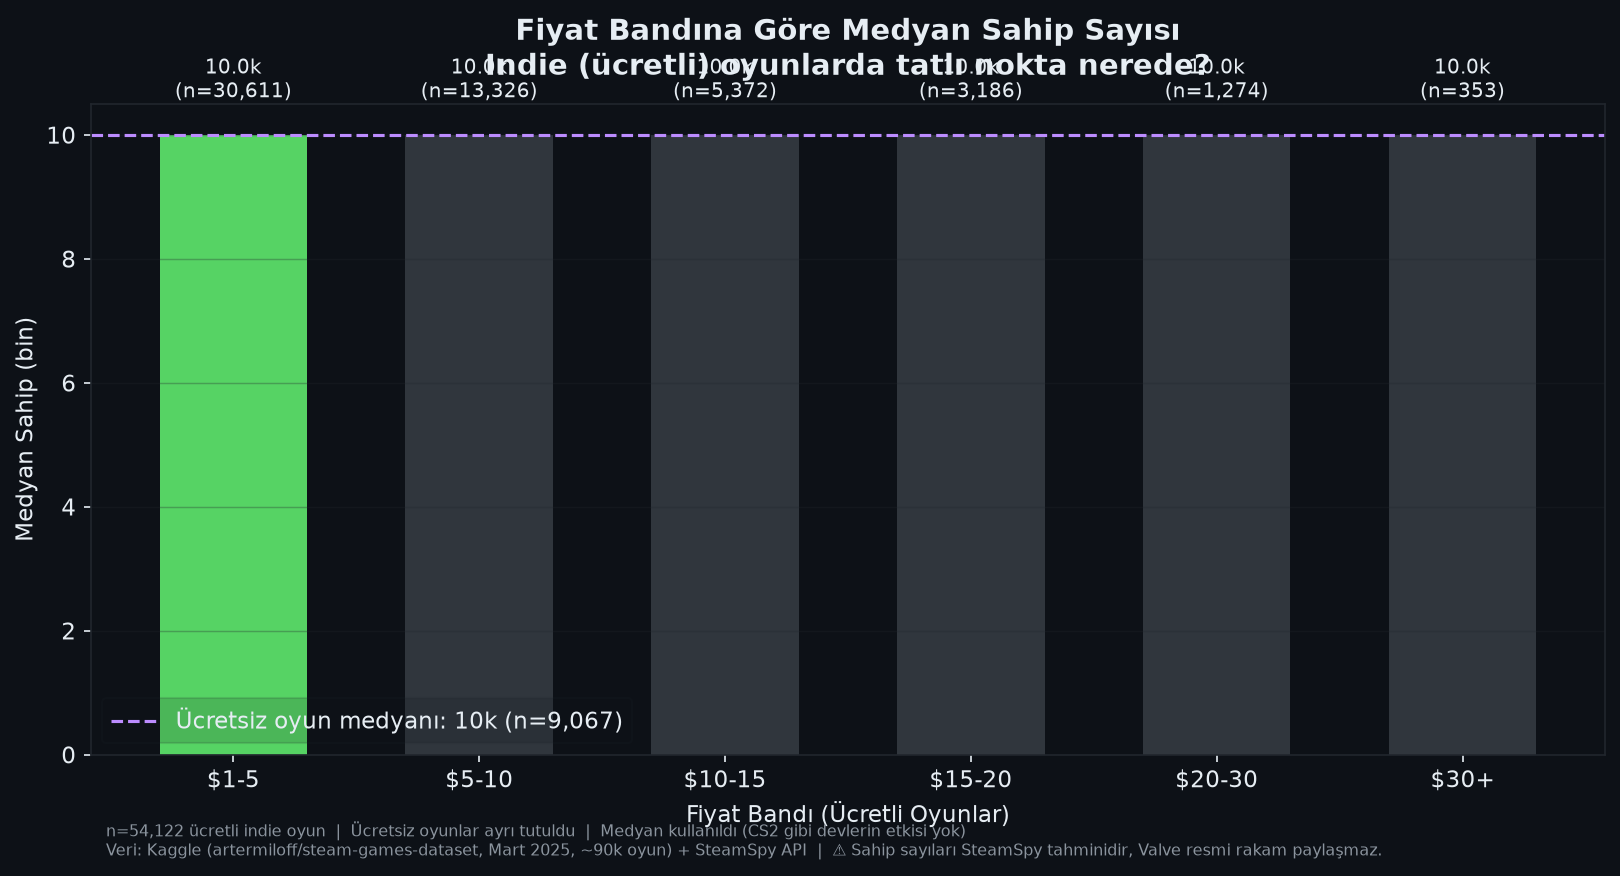
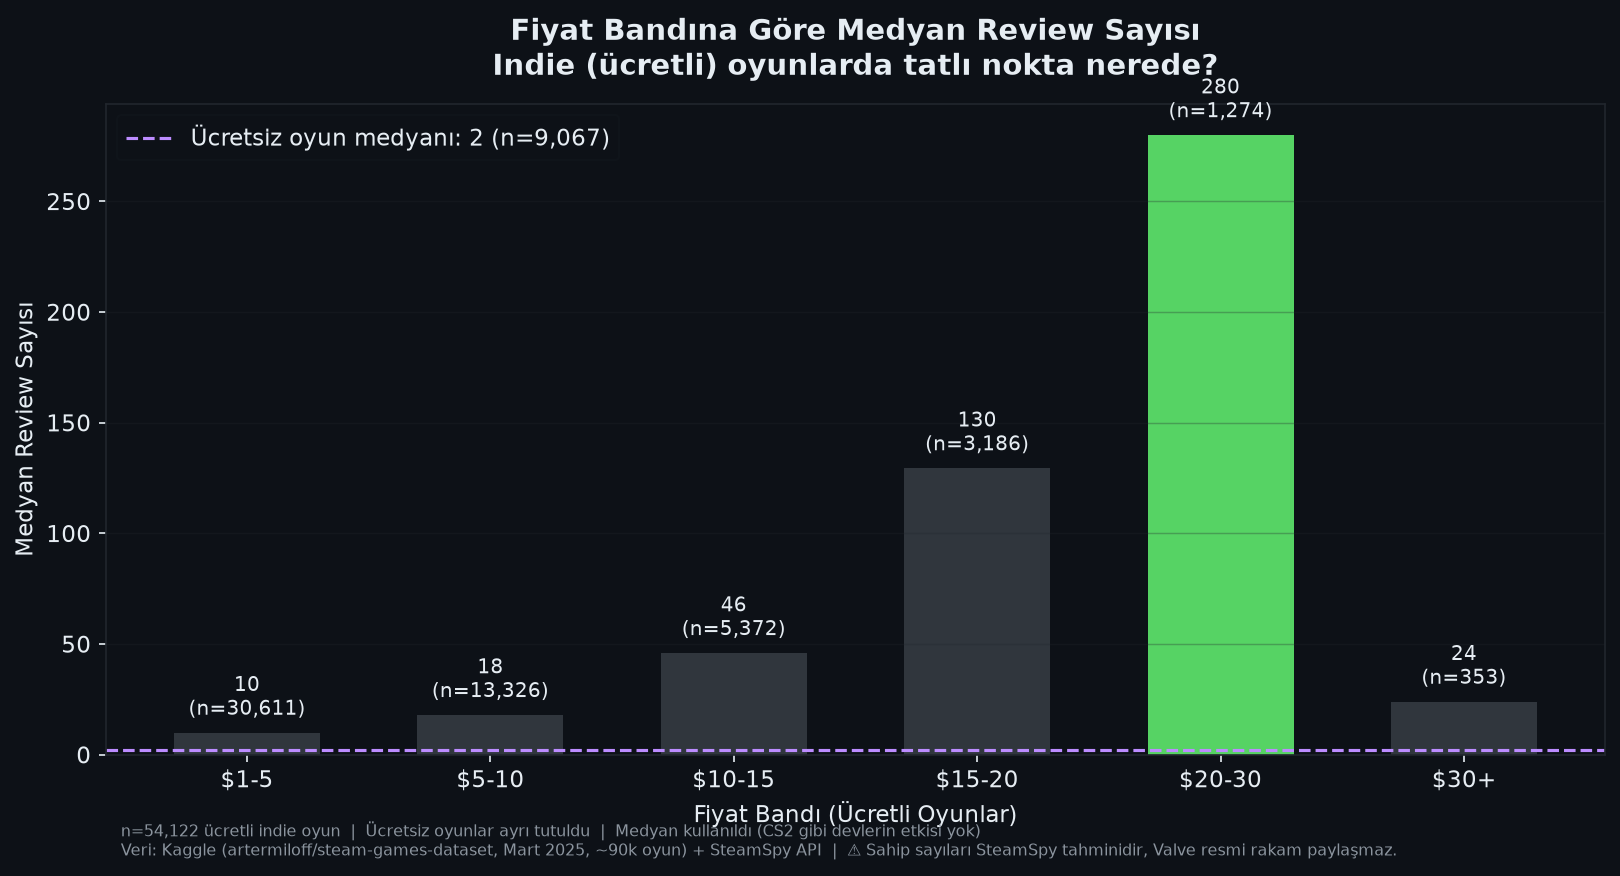
fix: price sweet spot chart mistakenly used owners_mid instead of total_reviews

diff --git a/src/visualizer.py b/src/visualizer.py
@@ -327,11 +327,11 @@ def chart_price_sweet_spot(df):
     paid["bucket"] = pd.cut(paid["price"], bins=bins, labels=labels)
 
     stats = paid.groupby("bucket", observed=True).agg(
-        medyan=("owners_mid", "median"),
-        n=("owners_mid", "count")
+        medyan=("total_reviews", "median"),
+        n=("total_reviews", "count")
     ).reset_index()
 
-    free_median = free["owners_mid"].median()
+    free_median = free["total_reviews"].median()
 
     fig, ax = plt.subplots(figsize=(11, 6))
 
@@ -340,24 +340,24 @@ def chart_price_sweet_spot(df):
     best_idx = stats["medyan"].idxmax()
     colors[best_idx] = C["green"]
 
-    bars = ax.bar(stats["bucket"].astype(str), stats["medyan"] / 1000,
+    bars = ax.bar(stats["bucket"].astype(str), stats["medyan"],
                   color=colors, width=0.6)
 
     for bar, row in zip(bars, stats.itertuples()):
         ax.text(bar.get_x() + bar.get_width() / 2,
-                bar.get_height() + 0.5,
-                f"{row.medyan/1000:.1f}k\n(n={row.n:,})",
+                bar.get_height() + 5,
+                f"{row.medyan:.0f}\n(n={row.n:,})",
                 ha="center", va="bottom", fontsize=9.5, color=C["text"])
 
     # Ücretsiz referans çizgisi
-    ax.axhline(free_median / 1000, color=C["purple"], linewidth=1.5,
-               linestyle="--", label=f"Ücretsiz oyun medyanı: {free_median/1000:.0f}k (n={n_free:,})")
+    ax.axhline(free_median, color=C["purple"], linewidth=1.5,
+               linestyle="--", label=f"Ücretsiz oyun medyanı: {free_median:.0f} (n={n_free:,})")
 
-    ax.set_title("Fiyat Bandına Göre Medyan Sahip Sayısı\n"
+    ax.set_title("Fiyat Bandına Göre Medyan Review Sayısı\n"
                  "Indie (ücretli) oyunlarda tatlı nokta nerede?",
                  fontweight="bold", pad=14)
     ax.set_xlabel("Fiyat Bandı (Ücretli Oyunlar)")
-    ax.set_ylabel("Medyan Sahip (bin)")
+    ax.set_ylabel("Medyan Review Sayısı")
     ax.legend(framealpha=0.15, edgecolor=C["grid"])
     ax.grid(True, axis="y", alpha=0.3)
     _note(ax, f"n={n_paid:,} ücretli indie oyun  |  Ücretsiz oyunlar ayrı tutuldu  |  "
